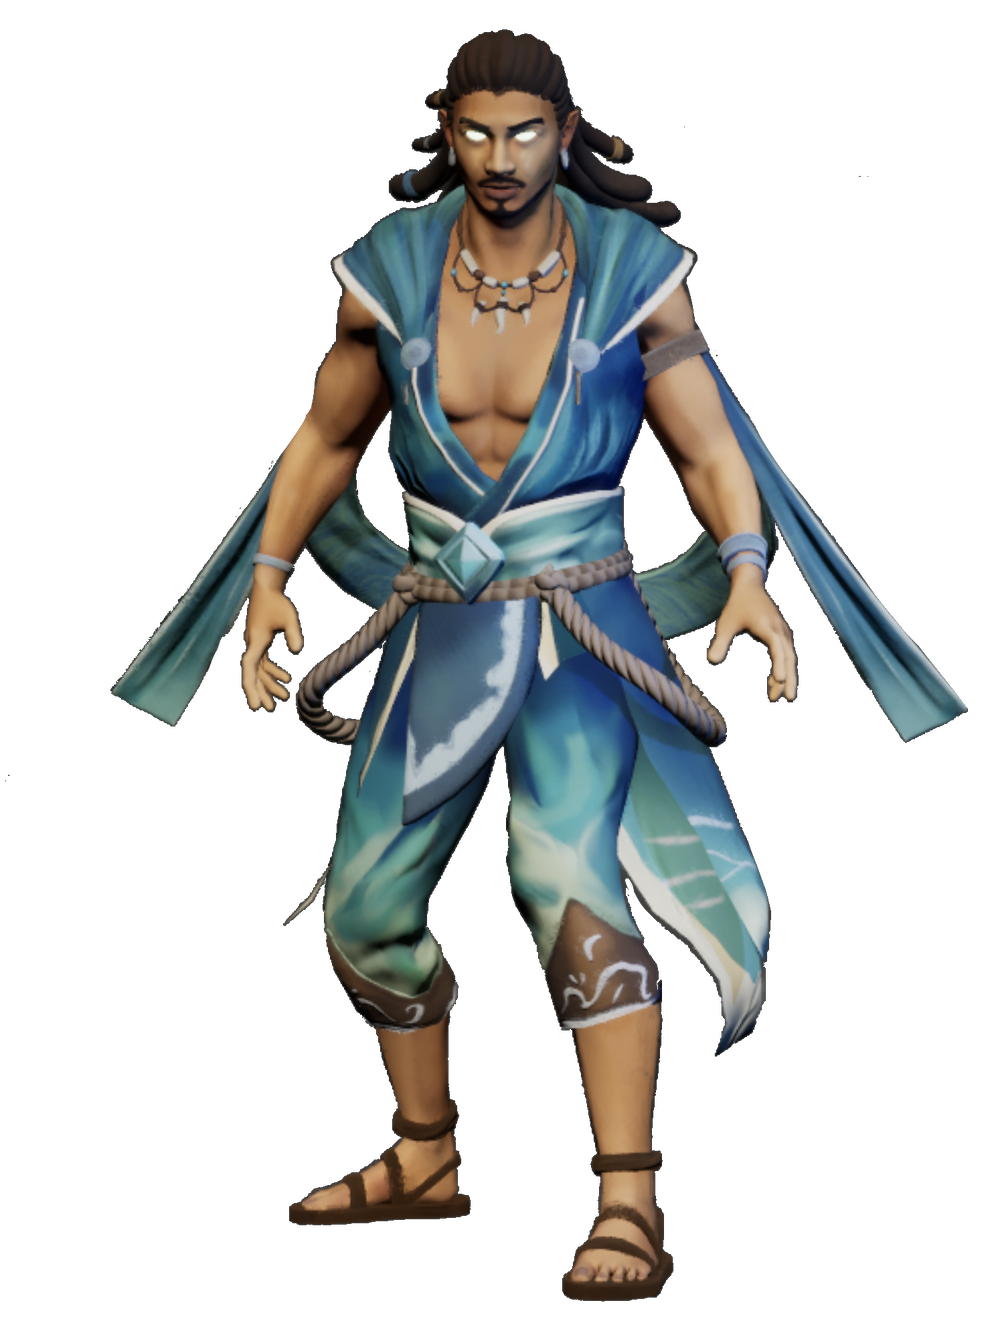
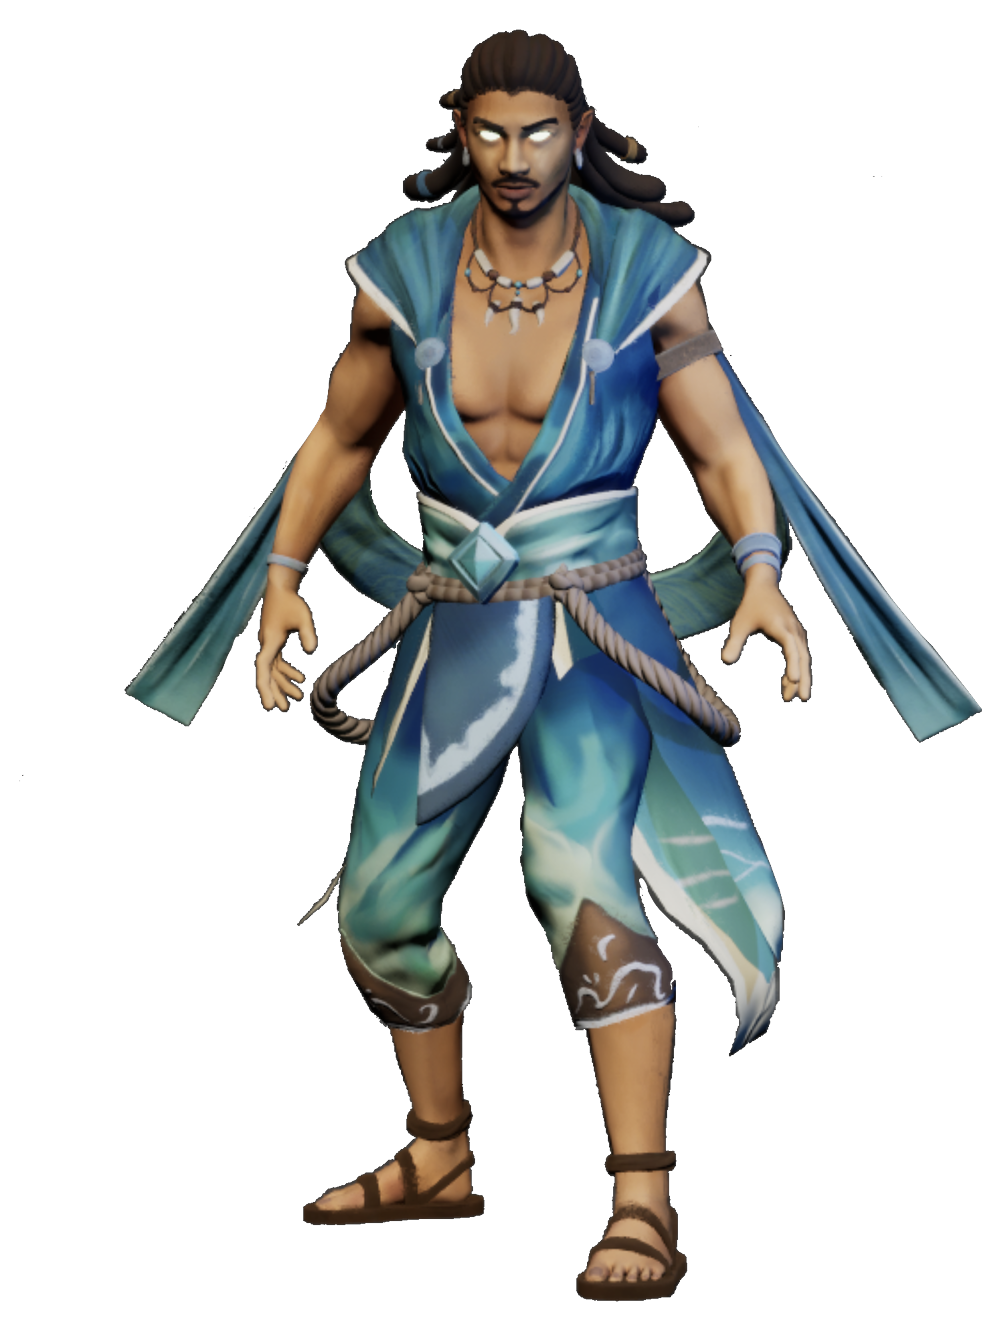
Implement 9/3 review pass
- Add Contact page with mailto-based message form; wire studio email into
  site.ts and nav
- Replace site logo (Wordmark) with supplied emblem artwork; point
  structured-data logo at it too
- Home: new hero statement, consolidated intro copy, pillars/arenas
  section titles, studio blurb, bottom CTA
- Mythbound: hero eyebrow/statement, 4v4 mode kickers, systems lede
  (systems descriptions sync automatically via the shared pillars data)
- Studio: statement heading/body swapped in
- game.ts: status -> Alpha, Target Window -> 'Early Access Q4 2026 ·
  Release TBA', pillar/Relic Rush copy updates, Heimdallr -> Heimdall
- Re-centered all four Bound character renders (were off-center within
  their transparent canvas by 12-49px; recentered via bbox math, no
  cropping)
- Follow-on consistency fixes not in the original list but caused by the
  Alpha status change: Footer status row split into Status/Target Window,
  footer note, Studio project blurb and CTA, Mythbound status section and
  meta description, and roadmap intro all updated off stale
  'post-production' wording

Changed region(s): [[0.093, 0.0, 0.992, 0.9857]]

diff --git a/src/data/game.ts b/src/data/game.ts
@@ -15,7 +15,7 @@ export const game = {
   /** Public date remains unannounced. Internal Early Access planning is not a promise. */
   releaseWindow: 'TBA',
 
-  status: 'In Post-Production',
+  status: 'Alpha',
 
   /**
    * source: studio direction (current). Relic Rush leads the three modes.
@@ -40,7 +40,7 @@ export const snapshot = [
   { label: 'Modes', value: 'Relic Rush · Team Deathmatch · Free For All' },
   { label: 'Perspective', value: 'Third Person' }, // source: GDD "Third Person Camera"
   { label: 'Status', value: game.status },
-  { label: 'Target Window', value: game.releaseWindow },
+  { label: 'Target Window', value: 'Early Access Q4 2026 · Release TBA' },
 ] as const;
 
 /**
@@ -56,7 +56,7 @@ export const pillars = [
     id: 'move',
     index: '01',
     title: 'Move',
-    heading: 'Momentum is the weapon',
+    heading: 'Momentum is power',
     body:
       'Running, sliding, wall-kicking and mantling chain into one another. Carry your momentum from one move to the next and turn speed into an advantage.',
     detail: ['Run', 'Slide', 'Wall-Kick', 'Mantle'],
@@ -68,7 +68,7 @@ export const pillars = [
     title: 'Brawl',
     heading: 'Close range, high commitment',
     body:
-      'Close the distance, read the parry and commit to your strike. Spacing, timing and momentum shape every melee exchange.',
+      'Melee exchanges are decided by spacing, timing, and player velocity. Close the distance, predict the parry, and commit to your strikes.',
     detail: ['Melee exchanges', 'Parry timing', 'Momentum scaling', 'Positioning'],
     image: 'base-clash',
   },
@@ -78,7 +78,7 @@ export const pillars = [
     title: 'Wield Power',
     heading: 'The gods are sponsors',
     body:
-      'Thor, Loki, Njord and Hel each grant their Bound two distinct abilities. Lightning, speed, wind and the power of the dead give every contestant a different approach.',
+      'Thor, Loki, Njord and Hel each grant their Bound two distinct abilities. Lightning, magic, wind and the power of the dead give every contestant a different playstyle.',
     detail: ['Thor', 'Loki', 'Njord', 'Hel'],
     image: 'gold-burst',
   },
@@ -105,7 +105,7 @@ export const relicRush = {
   format: 'Featured mode',
   heading: 'Take the relic. Break their defenses.',
   body:
-    'Two teams fight over a central relic while defending three goals of their own. Delivering the relic destroys one. When a team loses every life it can no longer respawn, and the last team standing wins.',
+    'Two teams fight over a central relic while defending three goals of their own. Delivering the relic to a goal destroys it. When a team loses every goal they can no longer respawn. The last team standing wins.',
   beats: [
     {
       title: 'Contest the centre',
@@ -155,7 +155,7 @@ export const arenas = [
   {
     id: 'himinbjorg',
     name: 'Himinbjorg',
-    blurb: 'High atop mountains that scrape the sky, the Bound fight in and around the palace of Himinbjorg. Home to Heimdallr, it guards the gateway between Midgard and Asgard.',
+    blurb: 'High atop mountains that scrape the sky, the Bound fight in and around the palace of Himinbjorg. Home to Heimdall, it guards the gateway between Midgard and Asgard.',
     hasFinalArt: true,
     image: 'himinbjorg',
   },
@@ -174,7 +174,7 @@ export const modes = [
   {
     id: 'relic-rush',
     name: 'Relic Rush',
-    kicker: 'Objective · Two teams',
+    kicker: 'Objective · 4 VS 4',
     body:
       'Two teams fight over a central relic while defending three goals of their own. The relic destroys a goal on entry. Lose every life and you stop respawning. The last team standing wins.',
     video: 'mode-relic-rush',
@@ -183,7 +183,7 @@ export const modes = [
   {
     id: 'team-deathmatch',
     name: 'Team Deathmatch',
-    kicker: 'Two teams',
+    kicker: '4 VS 4',
     body:
       'Two teams battle to earn the most eliminations before the match timer reaches zero.',
     video: 'mode-team-deathmatch',

diff --git a/src/data/site.ts b/src/data/site.ts
@@ -26,6 +26,7 @@ export const nav = [
   { label: 'Mythbound', href: '/mythbound' },
   { label: 'Development', href: '/technology' },
   { label: 'Studio', href: '/studio' },
+  { label: 'Contact', href: '/contact' },
 ] as const;
 
 /**
@@ -35,6 +36,5 @@ export const nav = [
 export const socials: { label: string; href: string }[] = [];
 
 export const contact = {
-  // Enable once a monitored public address exists. See CONTENT_TODO.md #7.
-  email: null as string | null,
+  email: 'skaldforgestudio@gmail.com' as string | null,
 };

diff --git a/src/data/roadmap.ts b/src/data/roadmap.ts
@@ -23,7 +23,7 @@ export const roadmapIntro = {
   eyebrow: 'What comes next',
   title: 'The arena is only beginning',
   lede:
-    'Mythbound is in post-production. Release timing and further milestones will be shared when they are confirmed.',
+    'Mythbound is in Alpha. Release timing and further milestones will be shared when they are confirmed.',
 };
 
 export const roadmap: RoadmapItem[] = [
